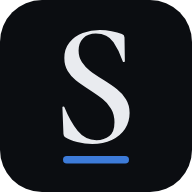
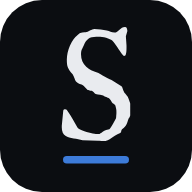
Bring back IM Fell English as the display font
- IM Fell English SC for headings, IM Fell English for italics and the clue,
  Figtree for reading, across the homepage, terms, privacy and 404
- No faux bold (IM Fell has a single weight)
- Logo/favicons redrawn with the IM Fell S

Claude-Session: https://claude.ai/code/session_01J3GPxPVroBAY9s9JWUJ9wM

diff --git a/index.html b/index.html
@@ -12,7 +12,7 @@
 <meta name="theme-color" content="#0B0D11">
 <link rel="preconnect" href="https://fonts.googleapis.com">
 <link rel="preconnect" href="https://fonts.gstatic.com" crossorigin>
-<link rel="stylesheet" href="https://fonts.googleapis.com/css2?family=Cormorant+Garamond:ital,wght@0,500;0,600;1,400;1,500&family=Figtree:wght@400;500;600&display=swap">
+<link rel="stylesheet" href="https://fonts.googleapis.com/css2?family=IM+Fell+English+SC&family=IM+Fell+English:ital@0;1&family=Figtree:wght@400;500;600&display=swap">
 <script>
   // Motion is opt-out: anyone asking for reduced motion gets the plain, still page.
   (function () {
@@ -27,7 +27,7 @@
 <style>
 /*
   Serindor — sable ground, argent type, one azure accent.
-  Type-led: Cormorant Garamond for display, Figtree for reading.
+  Type-led: IM Fell English SC for display (old-print, carved), IM Fell English for italics, Figtree for reading.
   The signature is the motion: inertia scroll, masked type, stacking project plates.
 */
 :root {
@@ -42,7 +42,8 @@
   --azure: #3D7BD9;
   --azure-hi: #6A9BE6;
   --azure-pale: #A9C6F0;
-  --display: "Cormorant Garamond", "Cormorant", Garamond, "Times New Roman", serif;
+  --display: "IM Fell English SC", "Palatino Linotype", Palatino, Georgia, serif;
+  --italic: "IM Fell English", "Palatino Linotype", Georgia, serif;
   --body: "Figtree", "Segoe UI", sans-serif;
   --ease: cubic-bezier(.22, 1, .36, 1);
   --gutter: max(20px, env(safe-area-inset-left));
@@ -66,6 +67,10 @@ body::after {
 }
 .motion body::after { animation: grain 1.2s steps(6) infinite; }
 @keyframes grain { 0%{transform:translate(0,0)} 20%{transform:translate(-3%,2%)} 40%{transform:translate(2%,-3%)} 60%{transform:translate(-2%,-1%)} 80%{transform:translate(3%,3%)} 100%{transform:translate(0,0)} }
+
+/* IM Fell comes in one weight: never fake-bold it, and set italics in IM Fell English */
+body { font-synthesis: none; }
+h1 em, h2 em, h3 em, .statement p em, .clue q, .intro .word em { font-family: var(--italic); }
 
 /* ---------- intro ---------- */
 .intro { position: fixed; inset: 0; z-index: 100; display: none; place-items: center; background: var(--sable); }
@@ -194,7 +199,7 @@ html:not(.motion) .clue .tiles span { color: #fff; background: var(--azure); bor
 .clue .timer { position: relative; width: 44px; height: 44px; }
 .clue .timer svg { width: 44px; height: 44px; transform: rotate(-90deg); }
 .clue .timer span { position: absolute; inset: 0; display: grid; place-items: center; font-size: 12px; font-variant-numeric: tabular-nums; color: var(--argent); }
-.clue q { display: block; quotes: none; font-family: var(--display); font-style: italic; font-size: 30px; line-height: 1.15; margin-bottom: 24px; }
+.clue q { display: block; quotes: none; font-family: var(--italic); font-style: italic; font-size: 30px; line-height: 1.15; margin-bottom: 24px; }
 .clue .tiles { display: grid; grid-template-columns: repeat(6, 1fr); gap: 8px; }
 .clue .tiles span { aspect-ratio: 1; display: grid; place-items: center; border-radius: 10px; border: 1px solid var(--edge-2); font-weight: 600; font-size: 22px; color: transparent; transition: background-color .35s, border-color .35s, color .2s, transform .35s var(--ease); }
 .clue .tiles span.on { color: #fff; background: var(--azure); border-color: var(--azure); transform: translateY(-3px); }
@@ -225,7 +230,7 @@ html:not(.motion) .clue .tiles span { color: #fff; background: var(--azure); bor
 .addrs { border-top: 1px solid var(--edge); }
 .addr { display: grid; grid-template-columns: 240px minmax(0, 1fr) auto; align-items: center; gap: 8px 24px; padding: 28px 0; border-bottom: 1px solid var(--edge); }
 .addr span { color: var(--muted); font-size: 15px; }
-.addr a { font-family: var(--display); font-size: clamp(28px, 3.6vw, 48px); line-height: 1.1; text-decoration: none; overflow-wrap: anywhere; background: linear-gradient(var(--azure), var(--azure)) 0 100% / 0 2px no-repeat; transition: background-size .6s var(--ease); justify-self: start; }
+.addr a { font-family: var(--italic); font-size: clamp(24px, 3.6vw, 46px); line-height: 1.1; text-decoration: none; overflow-wrap: anywhere; background: linear-gradient(var(--azure), var(--azure)) 0 100% / 0 2px no-repeat; transition: background-size .6s var(--ease); justify-self: start; }
 .addr a:hover { background-size: 100% 2px; }
 .copy { background: none; border: 1px solid var(--edge-2); color: var(--muted); font: inherit; font-size: 14px; min-height: 40px; padding: 0 18px; border-radius: 999px; cursor: pointer; transition: border-color .3s, color .3s; }
 .copy:hover { border-color: var(--argent); color: var(--argent); }

diff --git a/styles.css b/styles.css
@@ -9,13 +9,18 @@
   --text: #E9EBEF;
   --soft: #B9C0C9;
   --muted: #8E96A1;
-  --display: "Cormorant Garamond", "Cormorant", Garamond, "Times New Roman", serif;
+  --display: "IM Fell English SC", "Palatino Linotype", Palatino, Georgia, serif;
+  --italic: "IM Fell English", "Palatino Linotype", Georgia, serif;
   --body: "Figtree", "Segoe UI", sans-serif;
   --ease: cubic-bezier(.22, 1, .36, 1);
   color-scheme: dark;
 }
 
 * { box-sizing: border-box; }
+/* IM Fell comes in one weight: never fake-bold it, and set italics in IM Fell English */
+body { font-synthesis: none; }
+h1 em, h2 em, h3 em, .hero h1 em { font-family: var(--italic); }
+
 html { background: var(--ink); scroll-behavior: smooth; }
 @media (prefers-reduced-motion: reduce) { html { scroll-behavior: auto; } }
 

diff --git a/crypticseconds/privacy/index.html b/crypticseconds/privacy/index.html
@@ -12,7 +12,7 @@
   <meta name="theme-color" content="#0B0D11">
   <link rel="preconnect" href="https://fonts.googleapis.com">
   <link rel="preconnect" href="https://fonts.gstatic.com" crossorigin>
-  <link href="https://fonts.googleapis.com/css2?family=Cormorant+Garamond:ital,wght@0,500;0,600;1,400&family=Figtree:wght@400;500;600&display=swap" rel="stylesheet">
+  <link href="https://fonts.googleapis.com/css2?family=IM+Fell+English+SC&family=IM+Fell+English:ital@0;1&family=Figtree:wght@400;500;600&display=swap" rel="stylesheet">
   <link rel="stylesheet" href="../../styles.css">
 </head>
 <body>

diff --git a/crypticseconds/terms/index.html b/crypticseconds/terms/index.html
@@ -12,7 +12,7 @@
   <meta name="theme-color" content="#0B0D11">
   <link rel="preconnect" href="https://fonts.googleapis.com">
   <link rel="preconnect" href="https://fonts.gstatic.com" crossorigin>
-  <link href="https://fonts.googleapis.com/css2?family=Cormorant+Garamond:ital,wght@0,500;0,600;1,400&family=Figtree:wght@400;500;600&display=swap" rel="stylesheet">
+  <link href="https://fonts.googleapis.com/css2?family=IM+Fell+English+SC&family=IM+Fell+English:ital@0;1&family=Figtree:wght@400;500;600&display=swap" rel="stylesheet">
   <link rel="stylesheet" href="../../styles.css">
 </head>
 <body>

diff --git a/404.html b/404.html
@@ -11,7 +11,7 @@
   <meta name="theme-color" content="#0B0D11">
   <link rel="preconnect" href="https://fonts.googleapis.com">
   <link rel="preconnect" href="https://fonts.gstatic.com" crossorigin>
-  <link href="https://fonts.googleapis.com/css2?family=Cormorant+Garamond:ital,wght@0,500;0,600;1,400&family=Figtree:wght@400;500;600&display=swap" rel="stylesheet">
+  <link href="https://fonts.googleapis.com/css2?family=IM+Fell+English+SC&family=IM+Fell+English:ital@0;1&family=Figtree:wght@400;500;600&display=swap" rel="stylesheet">
   <link rel="stylesheet" href="/styles.css">
 </head>
 <body>
